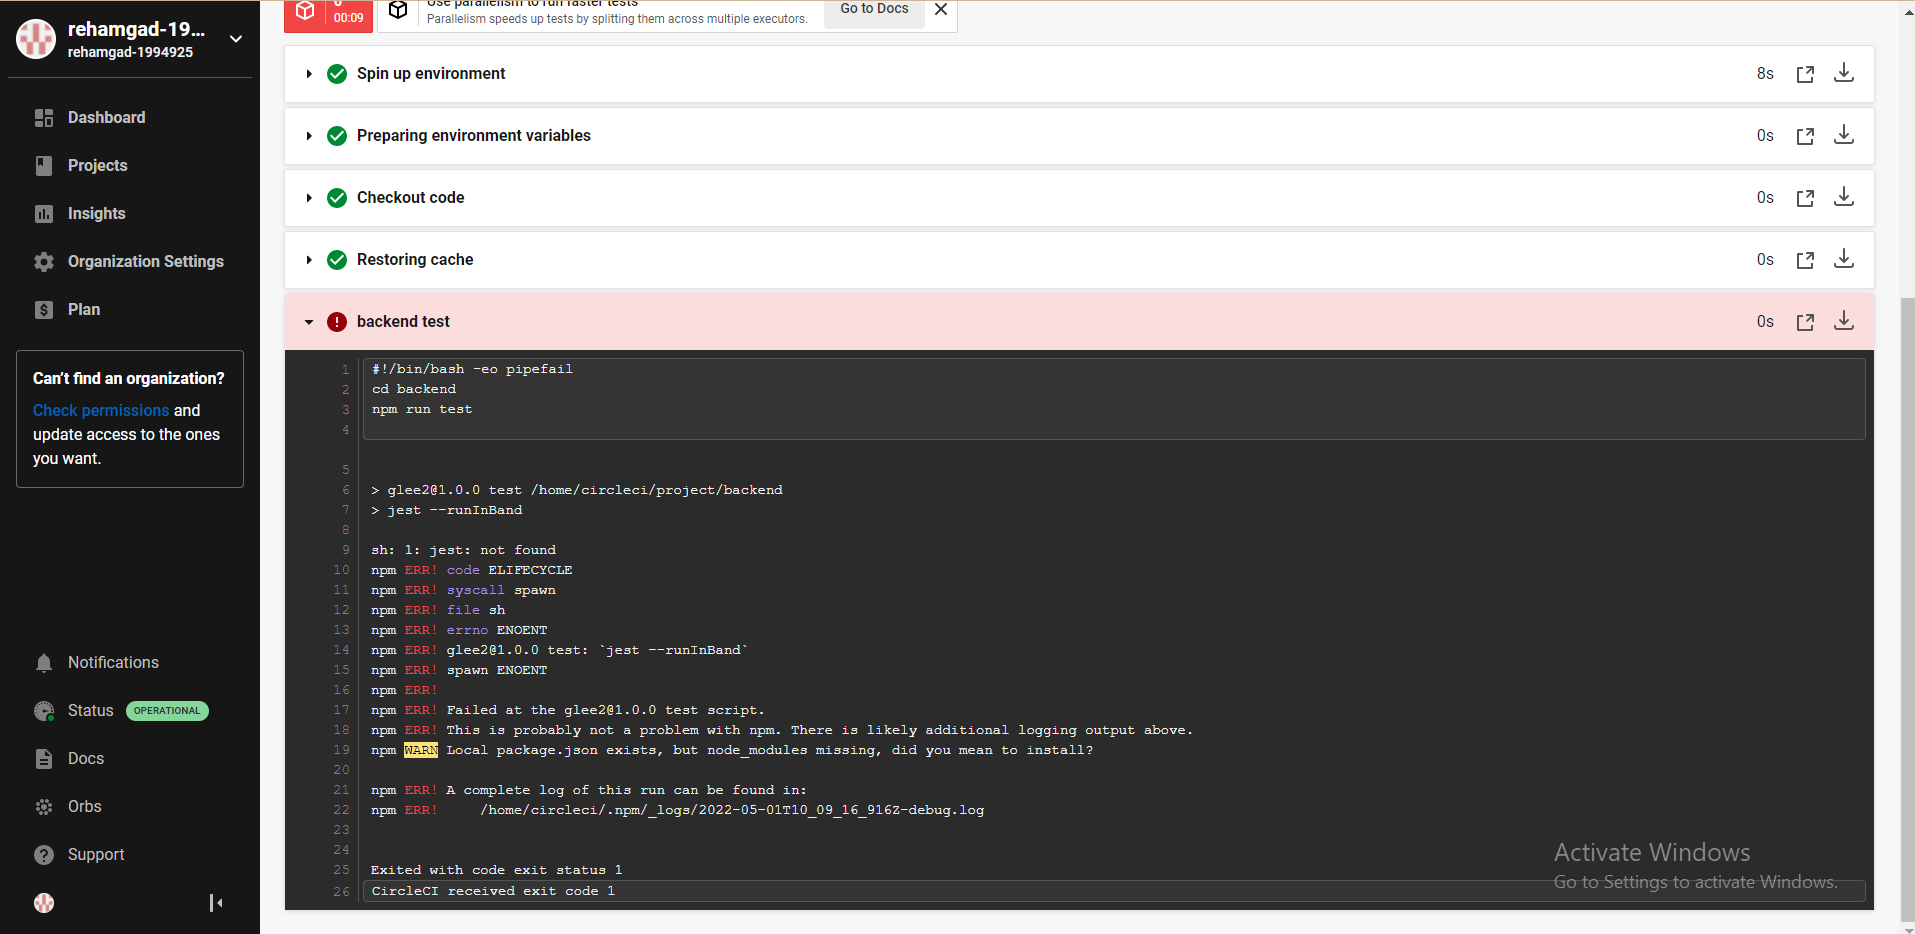
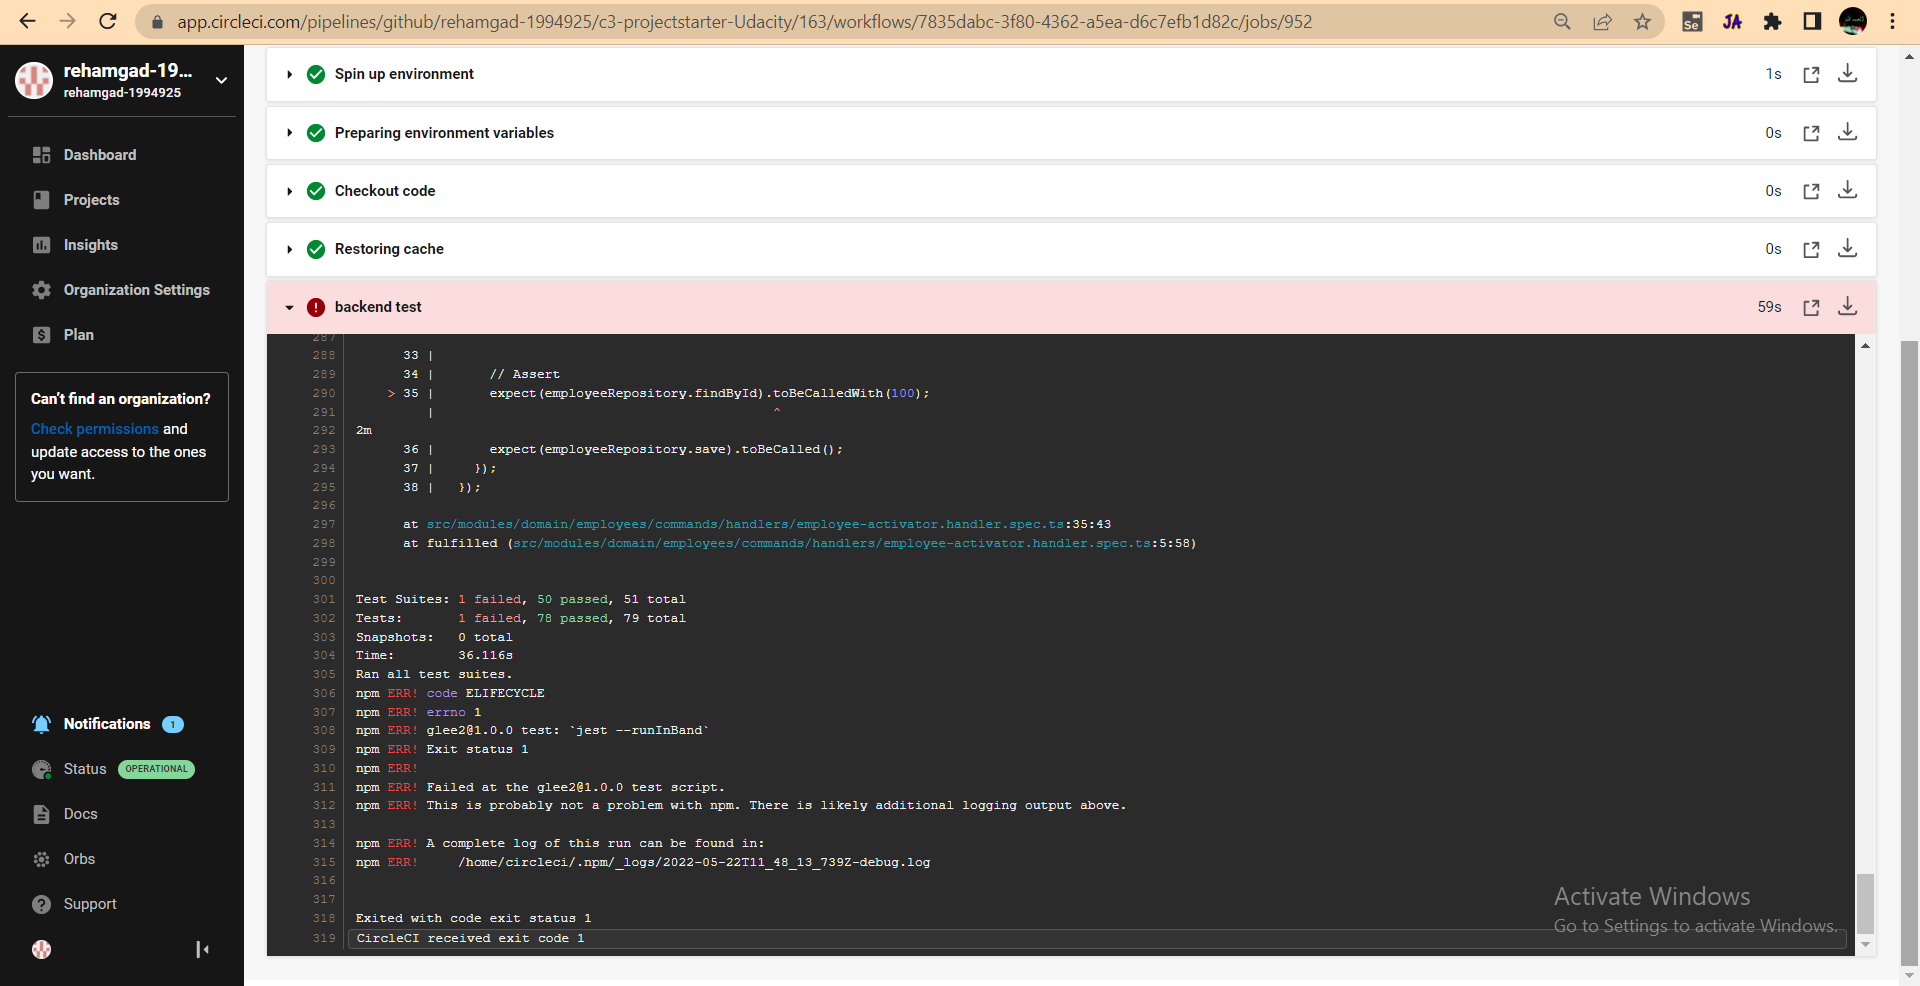
fix backend test error

Changed region(s): [[0.0, 0.0, 1.0, 1.0], [0.0, 0.9004, 0.0616, 0.9315], [0.0, 0.9625, 0.0308, 0.9936]]

diff --git a/backend/src/modules/domain/employees/commands/handlers/employee-activator.handler.spec.ts b/backend/src/modules/domain/employees/commands/handlers/employee-activator.handler.spec.ts
@@ -19,7 +19,7 @@ describe('Employee Remover', () => {
       const handler = new EmployeeActivator(employeeRepository);
 
       const params = {
-        employeeId: 101, //change this to 100 to make the test pass
+        employeeId: 100, //change this to 100 to make the test pass
         isActive: false,
       };
 
